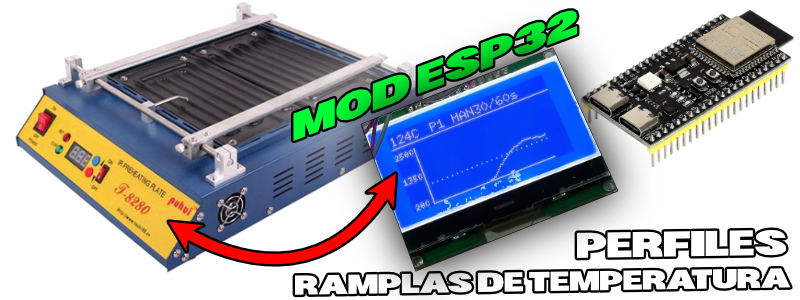
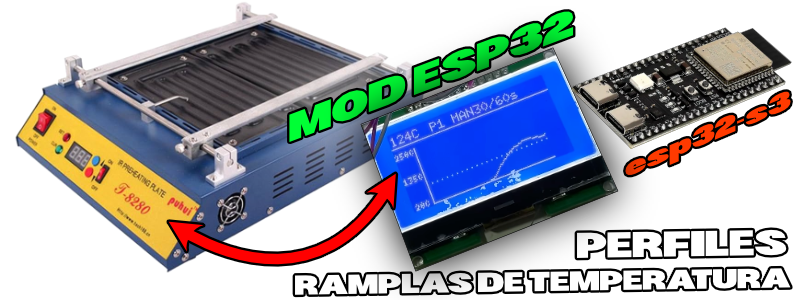
pre

Changed region(s): [[0.7188, 0.03, 1.0, 0.6], [0.3438, 0.03, 0.75, 0.48]]

diff --git a/precalentador.md b/precalentador.md
@@ -16,17 +16,27 @@ height="5">
 height="5">
 
 
-#### no estan todas las consolas?
-PUEDES VISITAR EL SIGUIENTE VIDEO:  para ver la instalacion, entender el funcionamiento y descargar el modelo 3d de este royecto
+
+
+
+  
+#### tienes dudas de como HACER ESTE PROYECTO?
+
+
+Este proyecto viene acompañado de un [video tutorial completo](https://youtu.be/5mQKpUOdqcE) no olvides verlo .
 
 
 <img src="imagenes/line.png"
 height="5">
 
+
+
 ###  **"DIAGRAMA"** MOD PUHUI T-8280
 
 <img src="imagenes/PRE-DIAGRAMA.png"
 height="250">
+
+descarga los diagramas en alta definicion [desde este enlace](https://www.mundoyakara.com/2023/03/convierte-un-topper-en-una-palanca.html)
 
 
 
